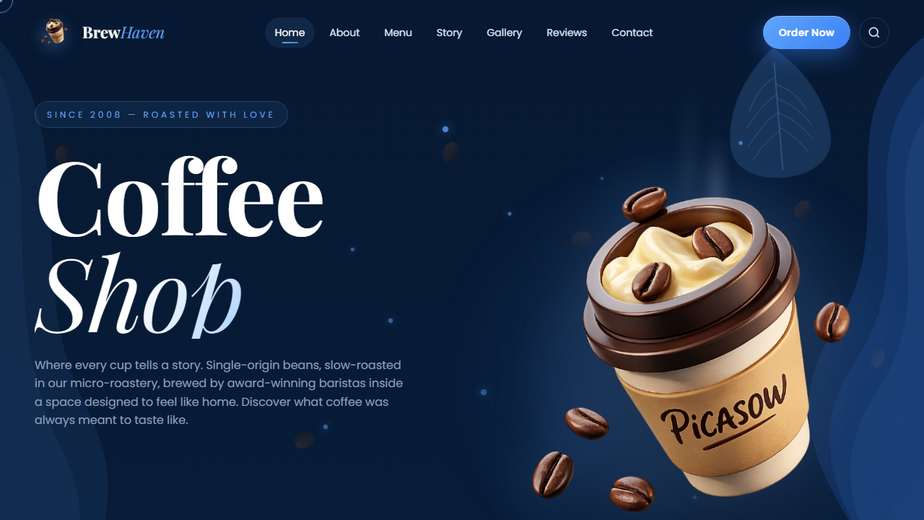
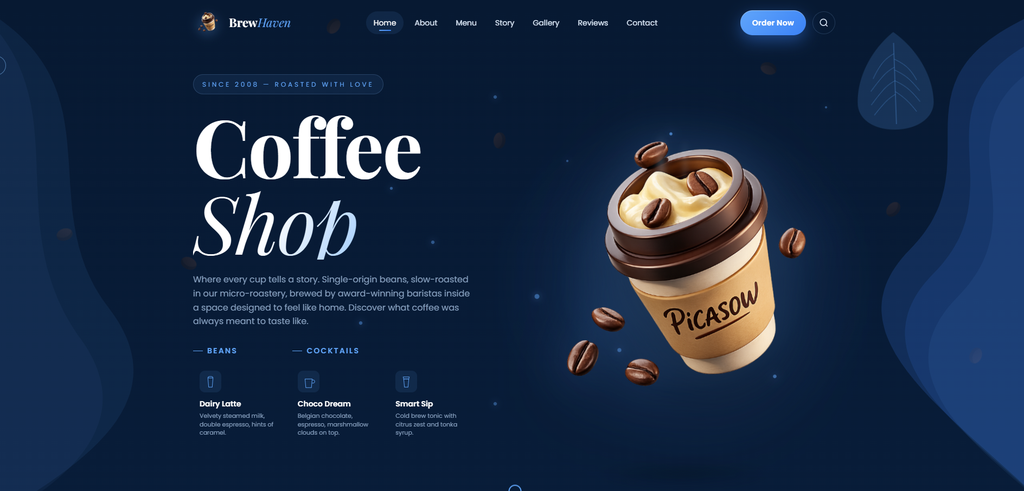
Use 345.png as Brew Haven gallery preview image
Replace the gallery coffee thumbnail with the user-provided full homepage screenshot.

diff --git a/index.html b/index.html
@@ -231,7 +231,7 @@
       </a>
       <a class="gallery-item gallery-item--d" href="https://espressomusic.github.io/COFFEE/" target="_blank" rel="noopener noreferrer" aria-label="פתיחת פרויקט אתר בית קפה בחלון חדש">
         <picture>
-          <img src="gallery-coffee.png" alt="פרויקט אתר בית קפה Brew Haven" width="924" height="520" loading="lazy" decoding="async" />
+          <img src="345.png" alt="פרויקט אתר בית קפה Brew Haven" width="1024" height="491" loading="lazy" decoding="async" />
         </picture>
       </a>
     </div>
